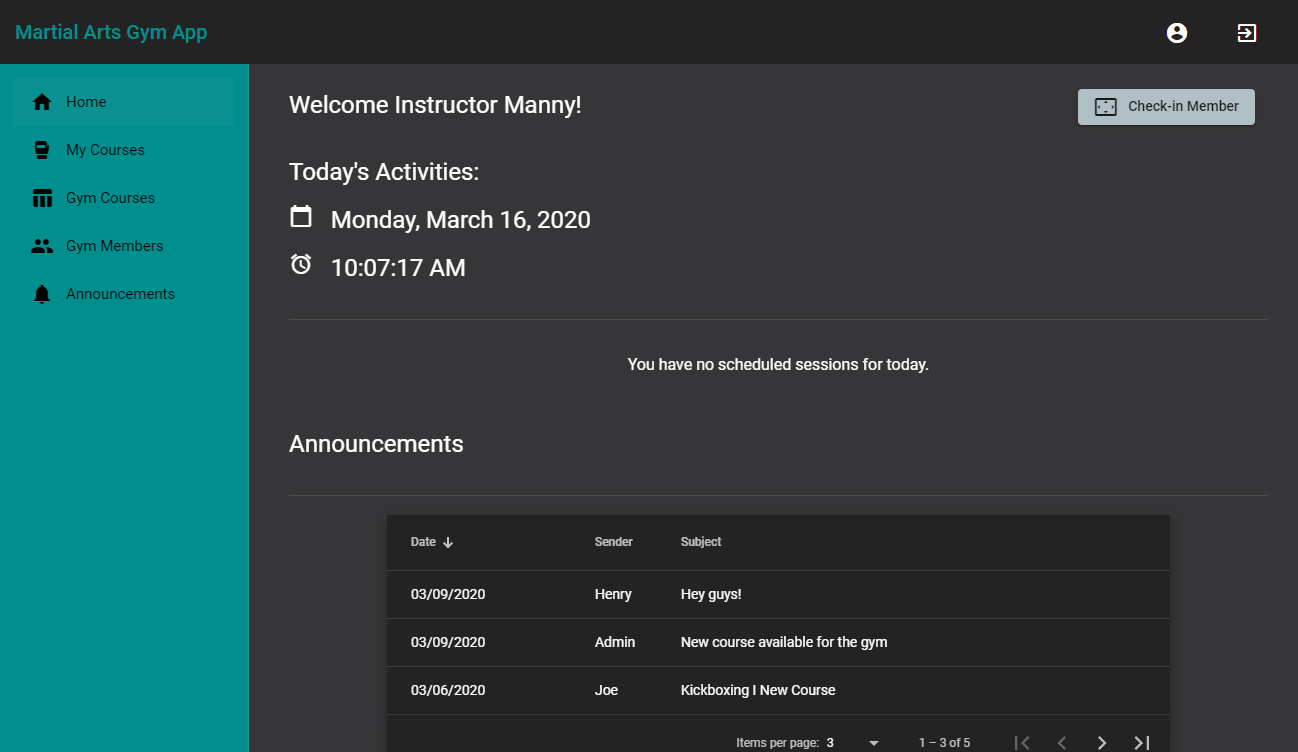
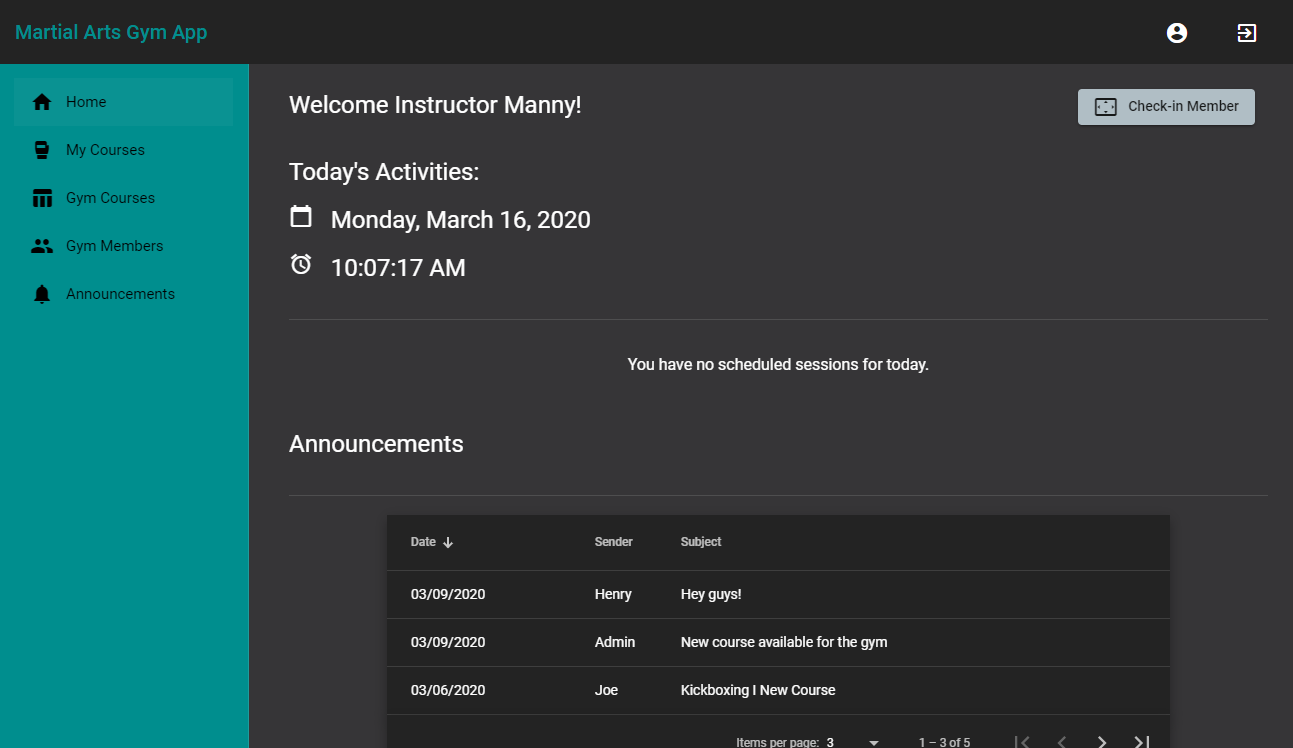
Changed to png

diff --git a/index.html b/index.html
@@ -288,13 +288,13 @@
         </ol>
         <div class="carousel-inner">
           <div class="carousel-item active">
-            <img class="d-block w-100" src="./img/portfolio/instructorHome.PNG" alt="First slide">
+            <img class="d-block w-100" src="./img/portfolio/instructorHome.png" alt="First slide">
           </div>
           <div class="carousel-item">
-            <img class="d-block w-100" src="./img/portfolio/check-in.PNG" alt="Second slide">
+            <img class="d-block w-100" src="./img/portfolio/check-in.png" alt="Second slide">
           </div>
           <div class="carousel-item">
-            <img class="d-block w-100" src="./img/portfolio/instructorCourseInfo1.PNG" alt="Third slide">
+            <img class="d-block w-100" src="./img/portfolio/instructorCourseInfo1.png" alt="Third slide">
           </div>
         </div>
         <a class="carousel-control-prev" href="#carouselExampleIndicators" role="button" data-slide="prev">
